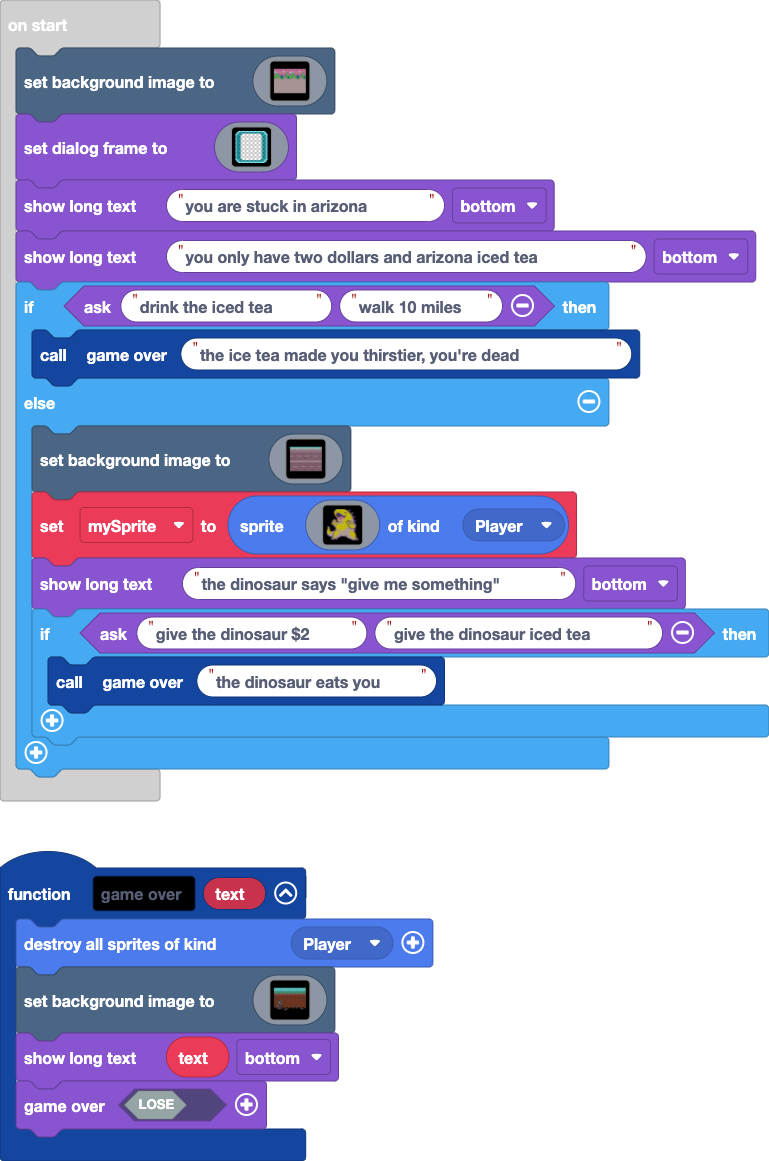
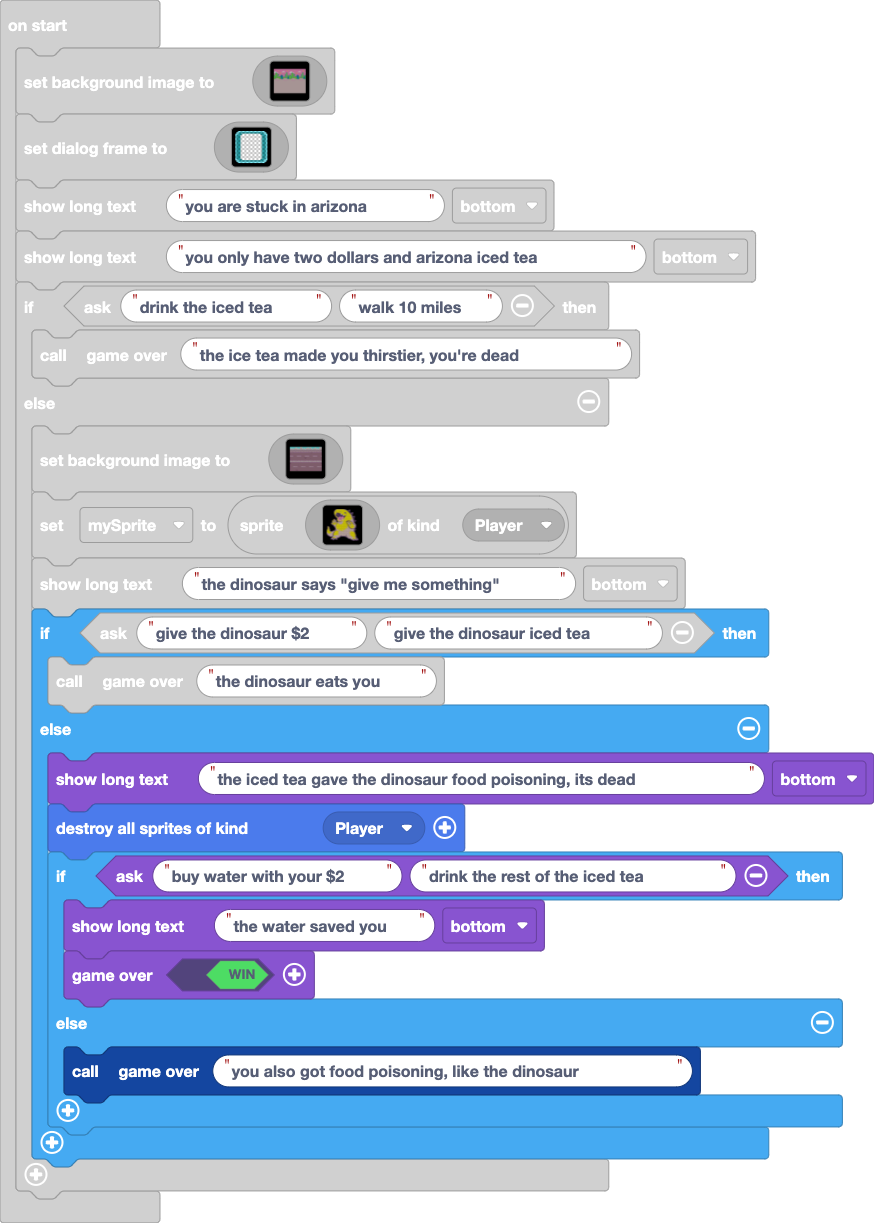
finished game

diff --git a/main.ts b/main.ts
@@ -482,5 +482,14 @@ if (game.ask("drink the iced tea", "walk 10 miles")) {
     game.showLongText("the dinosaur says \"give me something\"", DialogLayout.Bottom)
     if (game.ask("give the dinosaur $2", "give the dinosaur iced tea")) {
         game_over("the dinosaur eats you")
+    } else {
+        game.showLongText("the iced tea gave the dinosaur food poisoning, its dead", DialogLayout.Bottom)
+        sprites.destroyAllSpritesOfKind(SpriteKind.Player)
+        if (game.ask("buy water with your $2", "drink the rest of the iced tea")) {
+            game.showLongText("the water saved you", DialogLayout.Bottom)
+            game.over(true)
+        } else {
+            game_over("you also got food poisoning, like the dinosaur")
+        }
     }
 }
